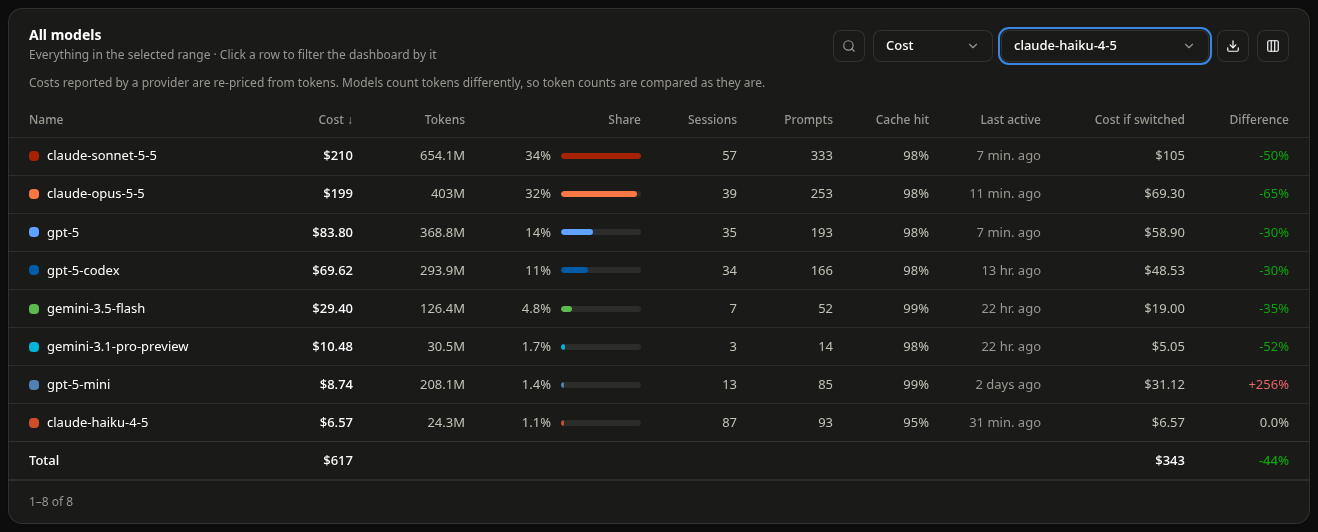
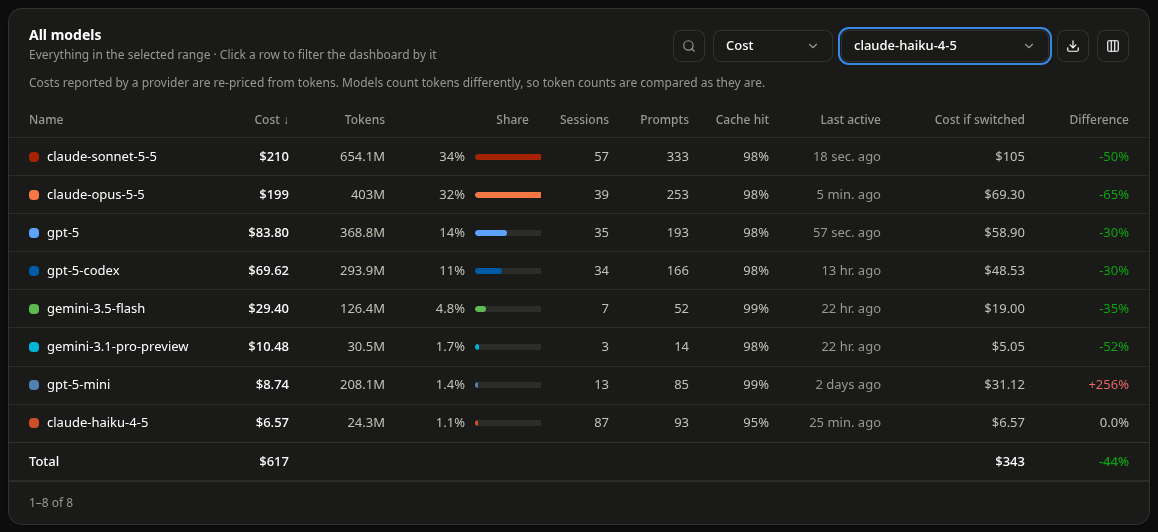
fix: Model names stay readable with what-if pricing on, and long translated table headers wrap instead of being cut off

diff --git a/web/src/components/BreakdownTable.svelte b/web/src/components/BreakdownTable.svelte
@@ -75,12 +75,12 @@
   {#if fixedCols}
     <colgroup>
       <col />
-      <col class="w-28" />
-      <col class="w-28" />
-      <col class="w-44" />
       <col class="w-24" />
       <col class="w-24" />
-      <col class="w-24" />
+      <col class="w-36" />
+      <col class="w-20" />
+      <col class="w-20" />
+      <col class="w-20" />
       <col class="w-28" />
       {#if showWhatIf}
         <col class="w-36" />

diff --git a/web/src/app.css b/web/src/app.css
@@ -454,6 +454,12 @@ table.data.fixed-cols {
   table-layout: fixed;
   min-width: 64rem;
 }
+/* Their columns don't grow to fit a header, so a long translated one wraps instead of running into the next. */
+table.data.fixed-cols th,
+table.data.fixed-cols th.num {
+  white-space: normal;
+  vertical-align: bottom;
+}
 table.data.fixed-cols td {
   overflow: hidden;
   text-overflow: ellipsis;

diff --git a/scripts/screenshots.ts b/scripts/screenshots.ts
@@ -113,7 +113,6 @@ const SHOTS: Shot[] = [
   {
     name: "whatif",
     route: "models",
-    width: 1600,
     // The models table priced again on another model.
     prepare: async (p) => {
       await p.eval(`document.querySelector('main button[title^="Compare with"]').click()`);
